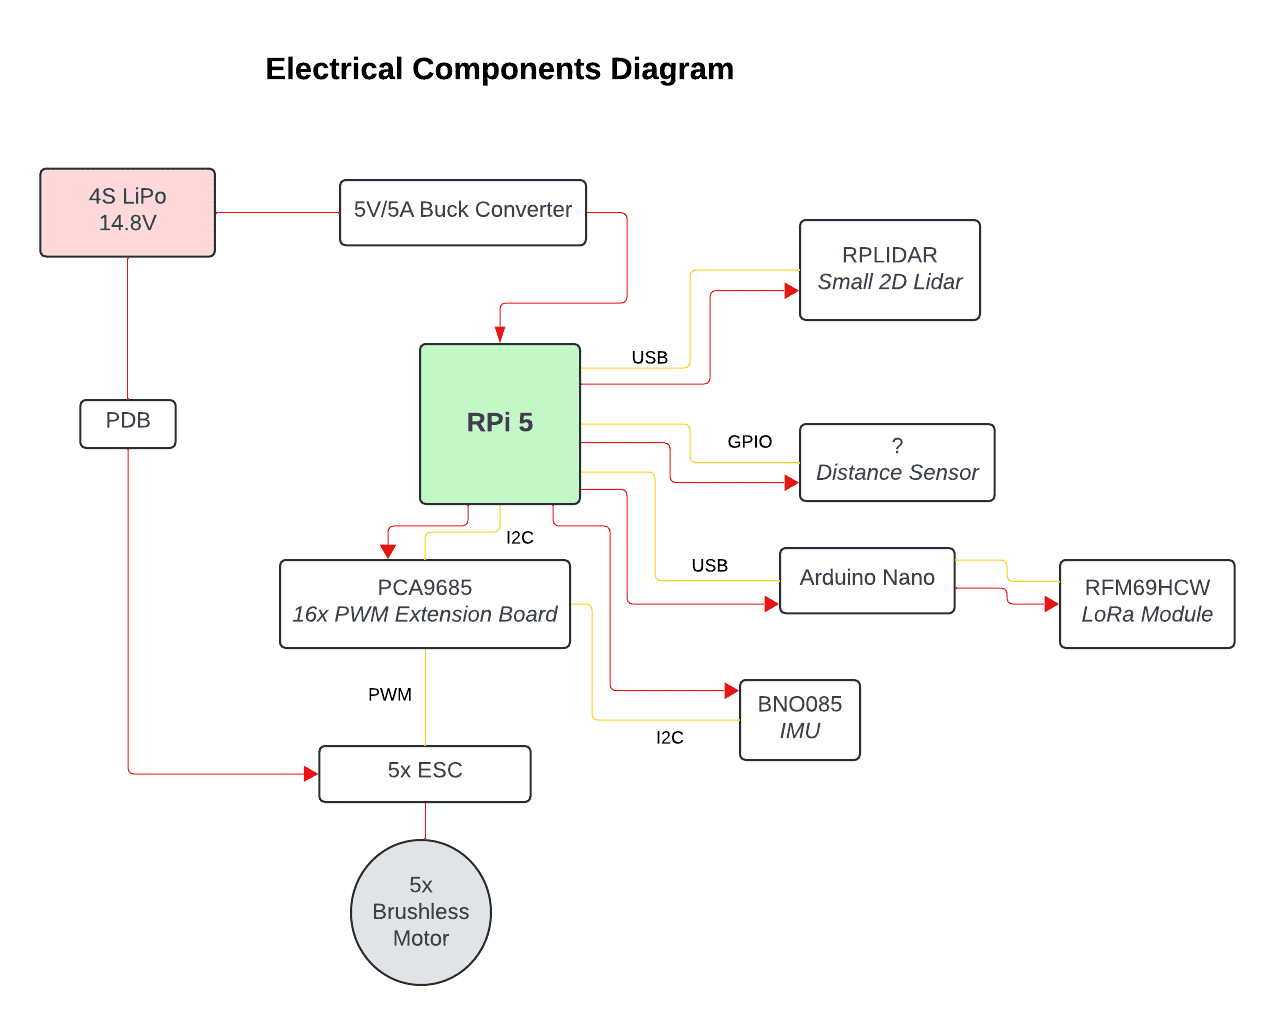
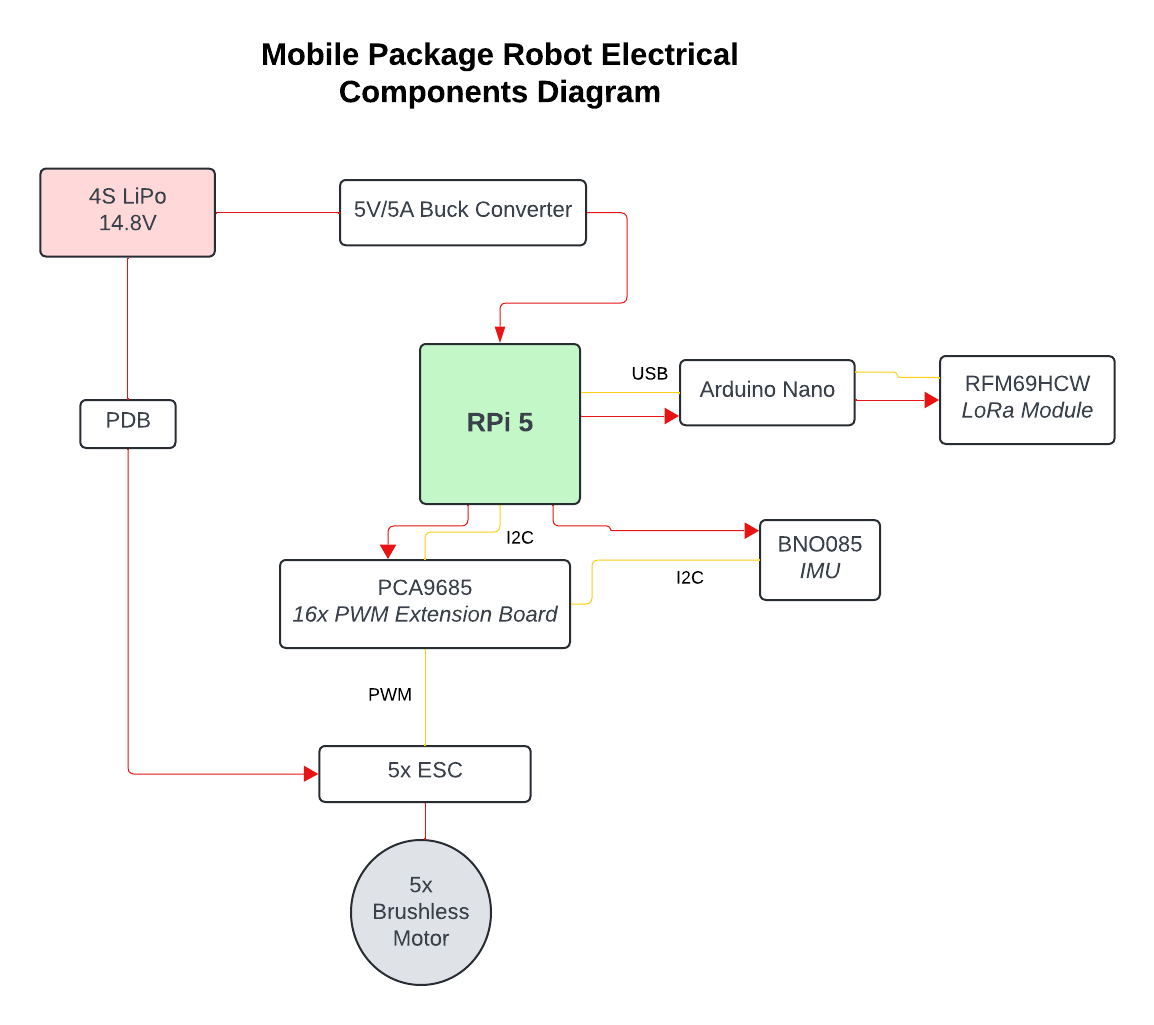
updated

diff --git a/_site/assets/js/lunrsearchengine.js b/_site/assets/js/lunrsearchengine.js
@@ -33,7 +33,7 @@ var documents = [{
     "id": 6,
     "url": "http://localhost:4000/drone-delivery/",
     "title": "Drone-Based Delivery System",
-    "body": "2024/12/05 - ROS2, LoRa, Embedded Systems Overview: I built a drone-based delivery system that delivers a package via tether. The package–in the form of a small mobile robot–stabilizes itself during descent, and has the ability to release itself from the tether and drive along the ground towards its destination.   GitHub Source Code: https://github. com/henryburon/drone-delivery Contents:  System     Drone and Winch   Mobile Package Robot   Base Station    Communication Architecture Design     Electrical   Mechanical    AcknowledgementsSystem: Quickly delivering small quantities of medical or emergency supplies over distance can be the difference between life or death. Drones are uniquely capable of handling this task. However, those with sufficient payload capacity are often large, dangerous in crowded areas, and ill-suited for operation in constrained environments. My project aims to address these challenges by offering a safer and more adaptable solution. The system consists of three main parts:  Drone and winch Mobile package robot Base stationDrone and Winch: My system uses a heavy-payload drone, along with a custom-built winch. The drone was built by Marno Nel. The drone’s size (specifically, the space underneath) and lifting capacity provide the primary constraints for this project. The winch, fixed to the underbelly of the drone, allows the robot to be deployed–lowered with a tether–from approximately 10m in the air. The winch system is controlled and powered by the drone’s existing components, however it communicates with the base station via an added LoRa module.   Mobile Package Robot: The mobile robot carries the medical supplies. It is lowered from the drone by tether, and can detach itself from this tether without human assistance. Once on the ground, it can drive closer to the target, taking advantage of its small form factor to enter constrained and crowded environments. The laterally-located propellers can be used to stabilize itself during descent, allowing the robot to safely deliver the medical supplies in a range of environments. The robot communicates via LoRa. The robot was built from scratch.       Mobile package robot     Tether mechanism in action Base Station: The base station simply consisted of a LoRa module connected to a computer. It allows the operator to receive status updates in real-time and send commands.      Base Station (R) Communication Architecture: Reliable communication over distance is critical for a drone-based robotic delivery system.   LoRa, short for Long Range, is a low-power, wide-area network communication protocol designed for wireless communication over long distances. Design: TODO: Sentence or two about overall design. Electrical:   TODO Mechanical: TODO Acknowledgements: TODO: Marno, Davin, Matt Mention that drone was built by Marno. "
+    "body": "2024/12/05 - ROS2, LoRa, Embedded Systems Overview: I built a drone-based delivery system that delivers a package via tether. The package–in the form of a small mobile robot–stabilizes itself during descent, and has the ability to release itself from the tether and drive along the ground towards its destination.   GitHub Source Code: https://github. com/henryburon/drone-delivery Contents:  System     Drone and Winch   Mobile Package Robot   Base Station    Communication Architecture Design AcknowledgementsSystem: Quickly delivering small quantities of medical or emergency supplies over distance can be the difference between life or death. Drones are uniquely capable of handling this task. However, those with sufficient payload capacity are often large, dangerous in crowded areas, and ill-suited for operation in constrained environments. My project aims to address these challenges by offering a safer and more adaptable solution. The system consists of three main parts:  Drone and winch Mobile package robot Base stationDrone and Winch: My system uses a heavy-payload drone, along with a custom-built winch. The drone was built by Marno Nel. The drone’s size (specifically, the space underneath) and lifting capacity provide the primary constraints for this project. The winch, fixed to the underbelly of the drone, allows the robot to be deployed–lowered with a tether–from approximately 10m in the air. The winch system is controlled and powered by the drone’s existing components, however it communicates with the base station via an added LoRa module.   Mobile Package Robot: The mobile robot carries the medical supplies. It is lowered from the drone by tether, and can detach itself from this tether without human assistance. Once on the ground, it can drive closer to the target, taking advantage of its small form factor to enter constrained and crowded environments. The laterally-located propellers can be used to stabilize itself during descent, allowing the robot to safely deliver the medical supplies in a range of environments. The robot communicates via LoRa. The robot was built from scratch.       Mobile package robot     Tether mechanism in action Base Station: The base station simply consisted of a LoRa module connected to a computer. It allows the operator to receive status updates in real-time and send commands.      Base Station (R) Communication Architecture: Reliable communication over distance is critical for a drone-based robotic delivery system.   LoRa, short for Long Range, is a low-power, wide-area network communication protocol designed for wireless communication over long distances. It operates in sub-gigahertz radio frequency bands (i. e. 433 MHz, 915 MHz) and is well-suited for low-power, low-throughput applications. LoRa achieves this using chirp spread spectrum (CSS) modulation, a frequency spreading method that allows for better resistance to interference and signal degradation over long distances. For these reasons, I used LoRa modules to facilitate the communication between the different parts of the system. Design: I built the mobile package robot, the winch system, and the base station from scratch.   The winch system electronics consist of a high-torque servo motor and LoRa module. It is connected to the drone’s power supply. Acknowledgements: Thanks to Matt, Davin, Shail, and Marno for your help in this project. "
     }, {
     "id": 7,
     "url": "http://localhost:4000/jpl_internship/",

diff --git a/_site/drone-delivery/index.html b/_site/drone-delivery/index.html
@@ -179,12 +179,7 @@
     </ul>
   </li>
   <li><a href="#communication-architecture">Communication Architecture</a></li>
-  <li><a href="#design">Design</a>
-    <ul>
-      <li><a href="#electrical">Electrical</a></li>
-      <li><a href="#mechanical">Mechanical</a></li>
-    </ul>
-  </li>
+  <li><a href="#design">Design</a></li>
   <li><a href="#acknowledgements">Acknowledgements</a></li>
 </ol>
 
@@ -248,27 +243,21 @@
 
 <p>LoRa, short for Long Range, is a low-power, wide-area network communication protocol designed for wireless communication over long distances.</p>
 
+<p>It operates in sub-gigahertz radio frequency bands (i.e. 433 MHz, 915 MHz) and is well-suited for low-power, low-throughput applications. LoRa achieves this using chirp spread spectrum (CSS) modulation, a frequency spreading method that allows for better resistance to interference and signal degradation over long distances. For these reasons, I used <a href="https://www.adafruit.com/product/3072">LoRa modules</a> to facilitate the communication between the different parts of the system.</p>
+
 <h2 id="design">Design</h2>
 
-<p>TODO: Sentence or two about overall design.</p>
-
-<h4 id="electrical">Electrical</h4>
+<p>I built the mobile package robot, the winch system, and the base station from scratch.</p>
 
 <p align="center">
    <img src="/assets/images/elec_diag_1.png" width="600" />
 </p>
 
-<p>TODO</p>
-
-<h4 id="mechanical">Mechanical</h4>
-
-<p>TODO</p>
+<p>The winch system electronics consist of a high-torque servo motor and LoRa module. It is connected to the drone’s power supply.</p>
 
 <h2 id="acknowledgements">Acknowledgements</h2>
 
-<p>TODO: Marno, Davin, Matt</p>
-
-<p>Mention that drone was built by Marno.</p>
+<p>Thanks to Matt, Davin, Shail, and Marno for your help in this project.</p>
 
             </div>
 

diff --git a/_posts/2024-12-05-drone-delivery.md b/_posts/2024-12-05-drone-delivery.md
@@ -30,8 +30,6 @@ I built a drone-based delivery system that delivers a package via tether. The pa
    - [Base Station](#base-station)
 2. [Communication Architecture](#communication-architecture)
 3. [Design](#design)
-   - [Electrical](#electrical)
-   - [Mechanical](#mechanical)
 4. [Acknowledgements](#acknowledgements)
 
 ## System
@@ -92,28 +90,21 @@ Reliable communication over distance is critical for a drone-based robotic deliv
    <img src="/assets/images/comm_diag_1.png" width="600" />
 </p>
 
-LoRa, short for Long Range, is a low-power, wide-area network communication protocol designed for wireless communication over long distances. 
+LoRa, short for Long Range, is a low-power, wide-area network communication protocol designed for wireless communication over long distances.
+
+It operates in sub-gigahertz radio frequency bands (i.e. 433 MHz, 915 MHz) and is well-suited for low-power, low-throughput applications. LoRa achieves this using chirp spread spectrum (CSS) modulation, a frequency spreading method that allows for better resistance to interference and signal degradation over long distances. For these reasons, I used [LoRa modules](https://www.adafruit.com/product/3072) to facilitate the communication between the different parts of the system.
 
 
 ## Design
 
-TODO: Sentence or two about overall design.
-
-#### Electrical
+I built the mobile package robot, the winch system, and the base station from scratch.
 
 <p align="center">
    <img src="/assets/images/elec_diag_1.png" width="600" />
 </p>
 
-TODO
-
-#### Mechanical
-
-TODO
+The winch system electronics consist of a high-torque servo motor and LoRa module. It is connected to the drone's power supply.
 
 ## Acknowledgements
 
-TODO: Marno, Davin, Matt
-
-
-Mention that drone was built by Marno.
+Thanks to Matt, Davin, Shail, and Marno for your help in this project.
